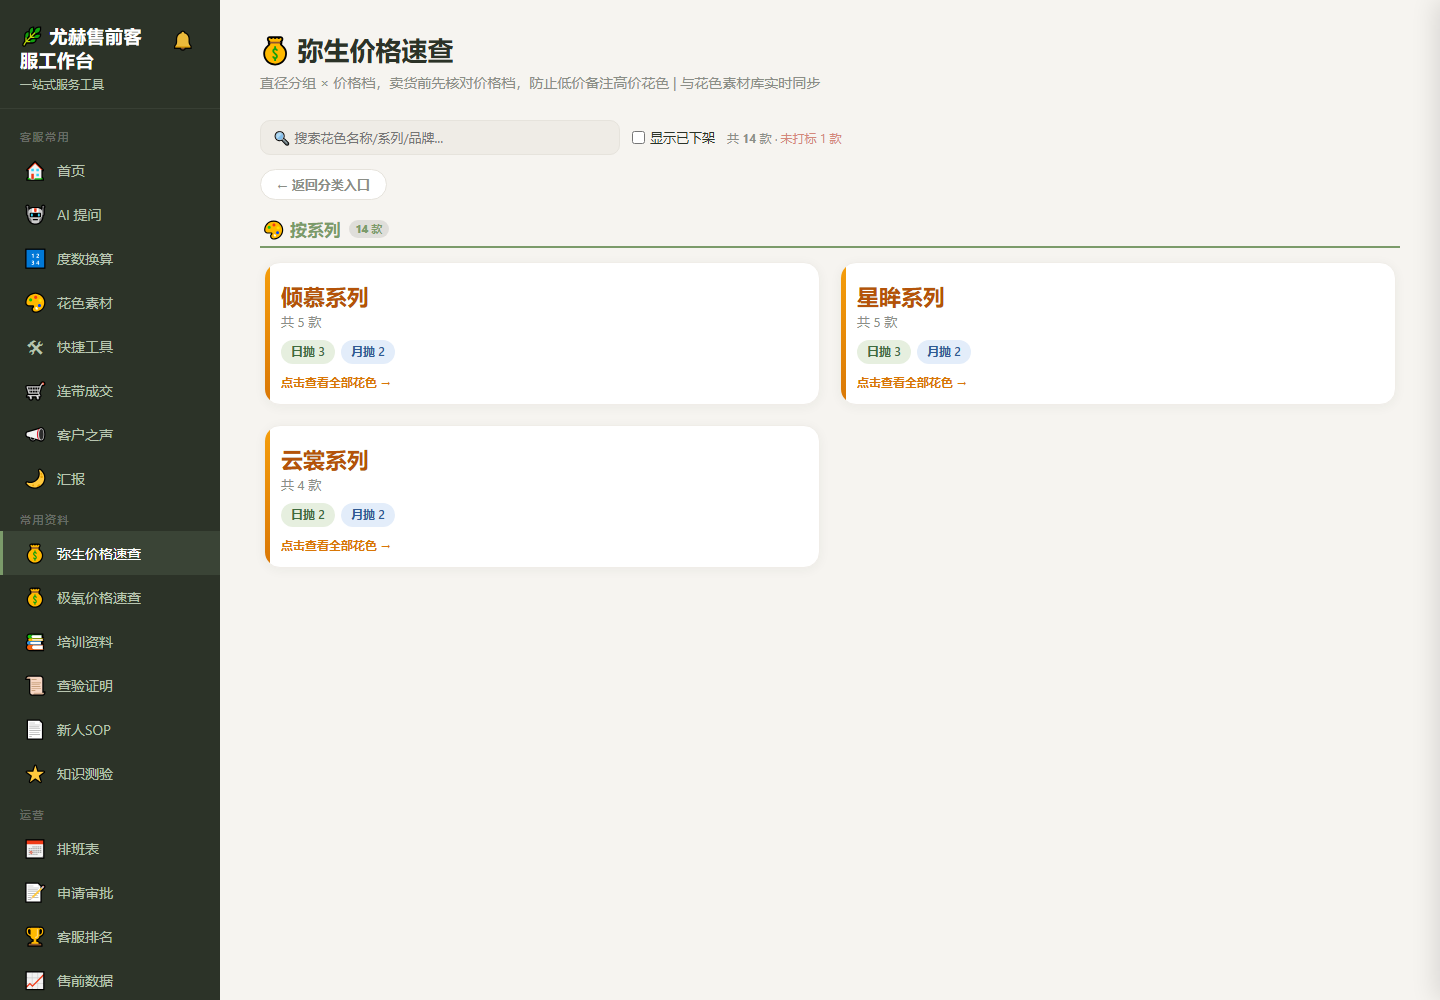
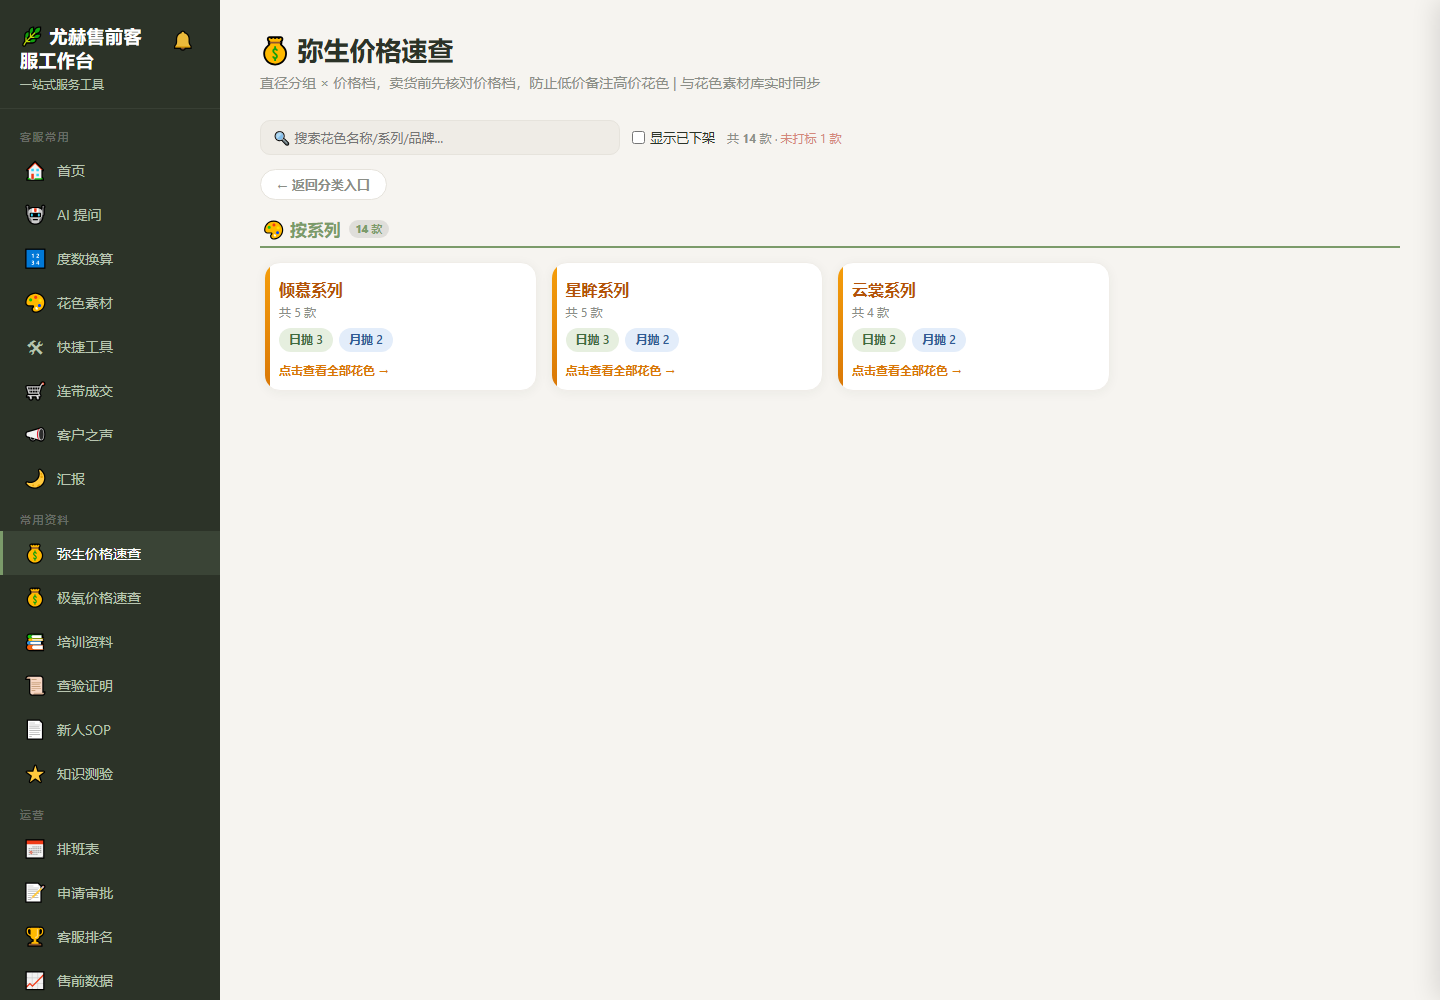
style: 价格速查第二层选项卡自适应多列紧凑排版，数量多时一眼看全

diff --git a/outputs/smoke-pp.js b/outputs/smoke-pp.js
@@ -102,6 +102,8 @@ const wd = setTimeout(()=>{ console.log('WATCHDOG_TIMEOUT'); process.exit(3); },
     o.seriesInfo = content().includes('倾慕系列') && content().includes('星眸系列') && content().includes('未填系列');
     o.l2NoPatterns = !content().includes('奶茶棕') && !content().includes('加测甲');   // 选项卡面不出现花色名
     o.l2NoCheckbox = document.querySelectorAll('#pp-content .pp-check').length===0;
+    o.optGridOk = !!document.querySelector('#pp-content .pp-tiercards.pp-opt-grid');   // 第二层自适应多列网格
+    o.optGridCols = getComputedStyle(document.querySelector('#pp-content .pp-opt-grid')).gridTemplateColumns.split(' ').length;   // 宽屏≥3列
     const bb = document.getElementById('pp-batch-bar');
     o.batchBarHiddenCsL2 = !bb || bb.style.display==='none';
     ppBackToDims();
@@ -316,9 +318,10 @@ const wd = setTimeout(()=>{ console.log('WATCHDOG_TIMEOUT'); process.exit(3); },
     priceOptionCardsDisc:4, jiyangPriceCards:1,
     adminChecks:3, quickSelects:6,
     pagedCards:2, afterMoreCards:4,
+    optGridCols:3,
     tierCardsJiyang:4
   };
-  const needed = ['treeFieldsOk','l1Info','noCardsLayer1','noCheckbox','noQuick','noPatternNames','no499','batchBarHiddenCs','backBtn','l2Title','seriesInfo','l2NoPatterns','l2NoCheckbox','batchBarHiddenCsL2','backOk','backLabelOk','typeTitleOk','typePatterns','typeGroupsOk','csTierNoCheckbox','batchBarHiddenCsTier','backToL2Ok','diamGroupsByPrice','priceGroupsByDiam','batchBarEl','batchBarHiddenL1','batchBarHiddenL2','batchBarVisibleTier','disc69Card','discVisible','loadMoreOk','oldNavGone','aliasReset','aliasJiyangOk','navActiveJiyang','aliasMiyangOk','navActiveMiyang','aliasBarHiddenL1','quickOk','localSynced','movedOut','batchOk','selClearedAfter','searchOk','editorPriceExists','editorDgExists','editorOptions','filterFnOk'];
+  const needed = ['treeFieldsOk','l1Info','noCardsLayer1','noCheckbox','noQuick','noPatternNames','no499','batchBarHiddenCs','backBtn','l2Title','seriesInfo','l2NoPatterns','l2NoCheckbox','optGridOk','batchBarHiddenCsL2','backOk','backLabelOk','typeTitleOk','typePatterns','typeGroupsOk','csTierNoCheckbox','batchBarHiddenCsTier','backToL2Ok','diamGroupsByPrice','priceGroupsByDiam','batchBarEl','batchBarHiddenL1','batchBarHiddenL2','batchBarVisibleTier','disc69Card','discVisible','loadMoreOk','oldNavGone','aliasReset','aliasJiyangOk','navActiveJiyang','aliasMiyangOk','navActiveMiyang','aliasBarHiddenL1','quickOk','localSynced','movedOut','batchOk','selClearedAfter','searchOk','editorPriceExists','editorDgExists','editorOptions','filterFnOk'];
   const numericKeys = Object.keys(numeric);
   const missing = needed.concat(numericKeys).filter(k=>!(k in out));
   const ok = missing.length===0 && needed.every(k=>out[k]===true) && numericKeys.every(k=>out[k]>=numeric[k]);

diff --git a/index.html b/index.html
@@ -755,6 +755,12 @@ body {
 .pp-tiercard.l1:hover{border-color:var(--c);box-shadow:0 8px 18px color-mix(in srgb,var(--c) 15%,transparent)}
 .pp-tiercards{display:grid;grid-template-columns:repeat(2,minmax(0,1fr));gap:20px;justify-content:center;padding:0 4px}
 @media (max-width:720px){.pp-tiercards{grid-template-columns:minmax(0,1fr)}}
+/* 第二层选项卡：数量多时自适应多列紧凑排版，一眼看全 */
+.pp-tiercards.pp-opt-grid{grid-template-columns:repeat(auto-fill,minmax(230px,1fr));gap:14px}
+.pp-opt-grid .pp-tiercard{padding:16px 14px 12px}
+.pp-opt-grid .pp-tiercard .pp-tiercard-price{font-size:16px}
+.pp-opt-grid .pp-tiercard .pp-tiercard-sub{font-size:12px;margin:4px 0 8px}
+.pp-opt-grid .pp-tiercard-enter{font-size:12px}
 .pp-tiercard{position:relative;background:#fff;border:1px solid var(--border-soft);border-radius:16px;padding:18px 16px 14px;cursor:pointer;transition:all .2s;box-shadow:var(--shadow);overflow:hidden}
 .pp-tiercard:hover{transform:translateY(-3px);box-shadow:var(--shadow-md);border-color:#f59e0b}
 .pp-tiercard::before{content:'';position:absolute;left:0;top:0;bottom:0;width:5px;background:linear-gradient(180deg,#f59e0b,#d97706)}
@@ -9768,7 +9774,7 @@ function renderPatternPricePage() {
     const opt = ppDimOptions(def.dim, items);
     html += '<button class="pp-back" onclick="ppBackToDims()">← 返回分类入口</button>';
     html += '<div class="pp-group-title">' + def.icon + ' ' + def.title + '<span class="pp-count">' + items.length + ' 款</span></div>';
-    html += '<div class="pp-tiercards">';
+    html += '<div class="pp-tiercards pp-opt-grid">';
     opt.list.forEach(v => { html += dimCard(def, v, v, items.filter(p => opt.get(p) === v), false); });
     html += dimCard(def, '__none__', opt.noneLabel, items.filter(p => !opt.get(p)), true);
     html += '</div>';
